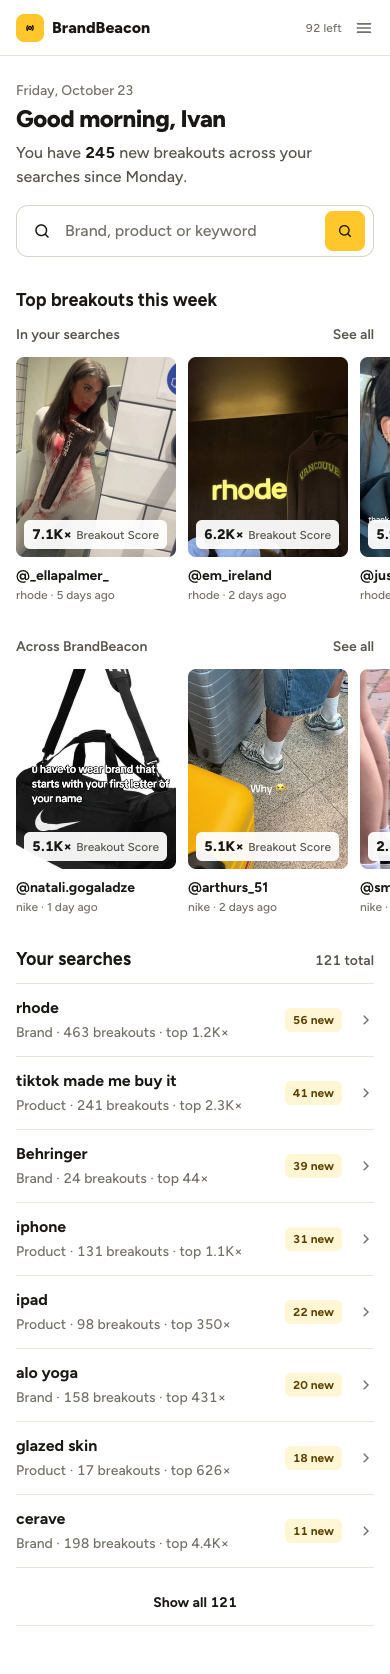
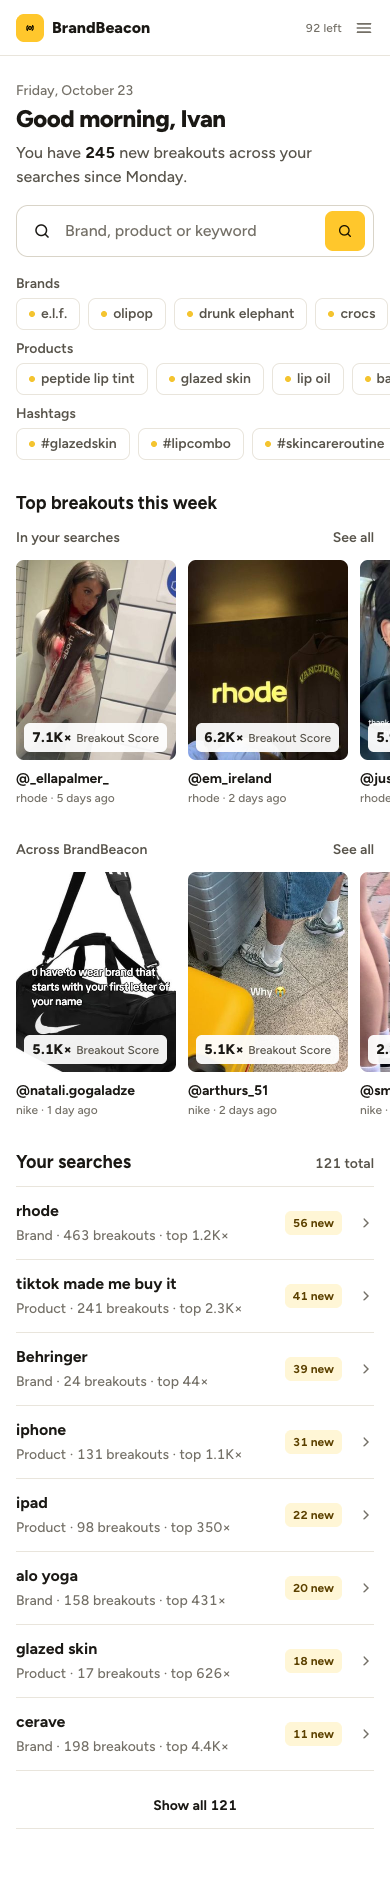
BB Home D: chips back under the search bar (live Brands / Products / Hashtags rows), build notes keep them (Ivan, 24 Oct)

diff --git a/bb-3/home-refresh/app.html b/bb-3/home-refresh/app.html
@@ -136,6 +136,11 @@ svg{flex:none}
 .vd .top{display:flex;flex-direction:column;gap:var(--s4)}
 .vd .sub{font-size:var(--t16);color:var(--ink2);margin:var(--s2) 0 0}
 .vd .sub b{color:var(--ink)}
+.crows{display:flex;flex-direction:column;gap:var(--s2)}
+.crow{display:flex;align-items:center;gap:var(--s2)}
+.crow .lb{flex:none;width:72px;font-size:var(--t14);font-weight:600;color:var(--ink2)}
+.crow .cl{display:flex;gap:var(--s2);flex-wrap:wrap}
+.crow .chip i{width:6px;height:6px;border-radius:50%;background:#F4C430;margin-right:6px;flex:none}
 .tb{display:flex;flex-direction:column;gap:var(--s6)}
 .lane{display:flex;flex-direction:column;gap:var(--s3)}
 .lane .lh{display:flex;align-items:center;justify-content:space-between;gap:var(--s4)}
@@ -189,6 +194,9 @@ svg{flex:none}
   .vb .slist{position:static}
   .vb .slist .row:nth-child(n+6){display:none}
   .vd{gap:var(--s6)}
+  .crow{flex-direction:column;align-items:flex-start;gap:var(--s1)}
+  .crow .cl{flex-wrap:nowrap;overflow:auto;scrollbar-width:none;margin:0 calc(-1*var(--s4));padding:0 var(--s4);max-width:calc(100% + 2*var(--s4))}
+  .crow .chip{flex:none}
   .slide{grid-auto-columns:160px;gap:var(--s3);margin:0 calc(-1*var(--s4));padding:0 var(--s4);scroll-padding:0 var(--s4)}
   .lane .arw{display:none}
   .tbl .ph{display:inline}
@@ -299,6 +307,8 @@ function sideLive(){var sr=["rhode","tiktok made me buy it","Behringer","iphone"
  '<div class="lme"><div class="me"><i>IB</i><div>Ivan Bagaybagayan<small>Growth plan</small></div></div><a class="out" href="#" aria-label="Log out"><svg width="16" height="16" viewBox="0 0 24 24" fill="none" stroke="currentColor" stroke-width="2" stroke-linecap="round"><path d="M9 21H5a2 2 0 0 1-2-2V5a2 2 0 0 1 2-2h4"/><path d="M16 17l5-5-5-5"/><path d="M21 12H9"/></svg></a></div>';}
 function sform(ph){return '<form class="sf" onsubmit="return false">'+I.search+'<input placeholder="'+(ph||"Brand, product or keyword")+'"><button class="btn y" type="submit">'+I.search.replace('width="18" height="18"','width="16" height="16"')+'<span>Find breakouts</span></button></form>';}
 function chips(lb){return '<div class="chips"><span class="lb">'+(lb||"Try")+'</span>'+CH.map(function(c){return '<a class="chip" href="#">'+c+'</a>';}).join("")+'</div>';}
+var CR=[["Brands",["e.l.f.","olipop","drunk elephant","crocs","glossier"]],["Products",["peptide lip tint","glazed skin","lip oil","barrier cream","tinted sunscreen"]],["Hashtags",["#glazedskin","#lipcombo","#skincareroutine","#grwm","#makeuptok"]]];
+function chipRows(){return '<div class="crows">'+CR.map(function(r){return '<div class="crow"><span class="lb">'+r[0]+'</span><span class="cl">'+r[1].map(function(c){return '<a class="chip" href="#"><i></i>'+c+'</a>';}).join("")+'</span></div>';}).join("")+'</div>';}
 function rowS(s){return '<a class="row" href="#"><span class="tx"><span class="nm">'+s.n+'</span><br><span class="mt num">'+s.t+' · '+s.b+' breakouts<i> · top '+s.top+'×</i></span></span><span class="nw num'+(s.nw?'':' z')+'">'+(s.nw?s.nw+' new':'Nothing new')+'</span>'+I.chev+'</a>';}
 function vcard(x,why){return '<a class="vc" href="#"><span class="th"><img src="'+x.img+'" alt=""><span class="sc"><b class="num">'+x.s+'×</b>Breakout Score</span></span><span class="hd">@'+x.h+'<small>'+x.q+' · '+x.d+'</small></span>'+(why?'<span class="why">'+x.why+'</span>':'')+'</a>';}
 function qs(){return '<div class="qs"><div><b class="num">'+NEWT+'</b><span>new this week</span></div><div><b class="num">92</b><span>searches left</span></div><div><b class="num">2</b><span>videos analyzed</span></div></div>';}
@@ -326,7 +336,7 @@ var VIEW={
   '<div class="sec"><div class="sech"><h2 class="h2">Newest breakouts</h2><a class="lnk" href="#">See all in My Feed</a></div><div class="strip">'+V.map(function(x){return vcard(x)}).join("")+'</div></div>'+
   '</div></div>';},
  d:function(){return '<div class="wrap"><div class="vd">'+
-  '<div class="top"><div><p class="hi">Friday, October 23</p><h1 class="h1">Good morning, Ivan</h1><p class="sub">You have <b class="num">'+NEWT+'</b> new breakouts across your searches since Monday.</p></div>'+sform()+'</div>'+
+  '<div class="top"><div><p class="hi">Friday, October 23</p><h1 class="h1">Good morning, Ivan</h1><p class="sub">You have <b class="num">'+NEWT+'</b> new breakouts across your searches since Monday.</p></div>'+sform()+chipRows()+'</div>'+
   '<div class="sec"><h2 class="h2">Top breakouts this week</h2><div class="tb">'+lane("ly","In your searches",DY)+lane("la","Across BrandBeacon",DA)+'</div></div>'+
   '<div class="sec"><div class="sech"><h2 class="h2">Your searches</h2><span class="lnk num">121 total</span></div><div class="rows">'+S.slice(0,8).map(rowD).join("")+'</div><a class="showall num" href="app.html?v=d&view=history">Show all 121</a></div>'+
   '</div></div>';},

diff --git a/bb-3/home-refresh/handoff.html b/bb-3/home-refresh/handoff.html
@@ -34,7 +34,7 @@ figcaption{font-size:12.5px;color:var(--q);margin-top:5px}
  <div class="notes"><div><h3>Build notes</h3><ul>
   <li>Small date line (e.g. "Friday, October 23"), then "Good morning, {first name}" by the user's local time (morning before 12, afternoon before 6 PM, then evening).</li>
   <li>Line under it: "You have <b>N</b> new breakouts across your searches since Monday". N = all new breakouts across the user's searches since the Monday rerun.</li>
-  <li>Search bar and Find breakouts button are the same component as today. No chips on this Home.</li>
+  <li>Search bar, Find breakouts button and the chips under it (Brands, Products, Hashtags rows) are the same component as today. Keep the chips.</li>
  </ul></div><div><h3>Edge cases</h3><ul>
   <li>N = 0: "No new breakouts yet this week. Your searches rerun every Monday."</li>
   <li>New account with no searches yet: drop the count line, keep the greeting and search bar.</li>
